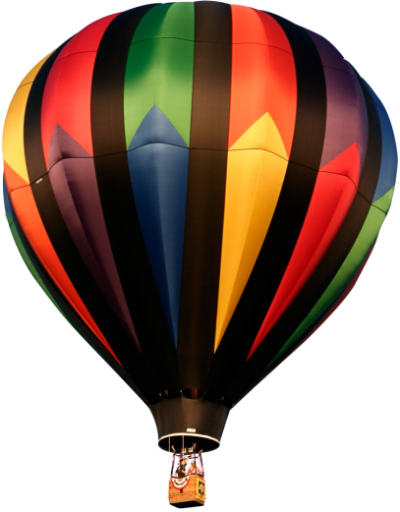
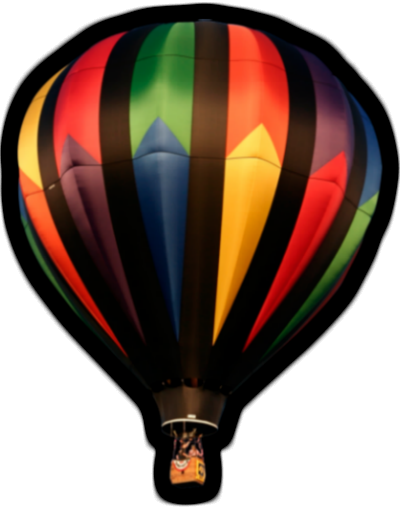
Gave images black border

diff --git a/core/src/com/balloon/game/levels/levels/Level8.java b/core/src/com/balloon/game/levels/levels/Level8.java
@@ -1,0 +1,4 @@
+package com.balloon.game.levels.levels;
+
+public class Level8 {
+}
